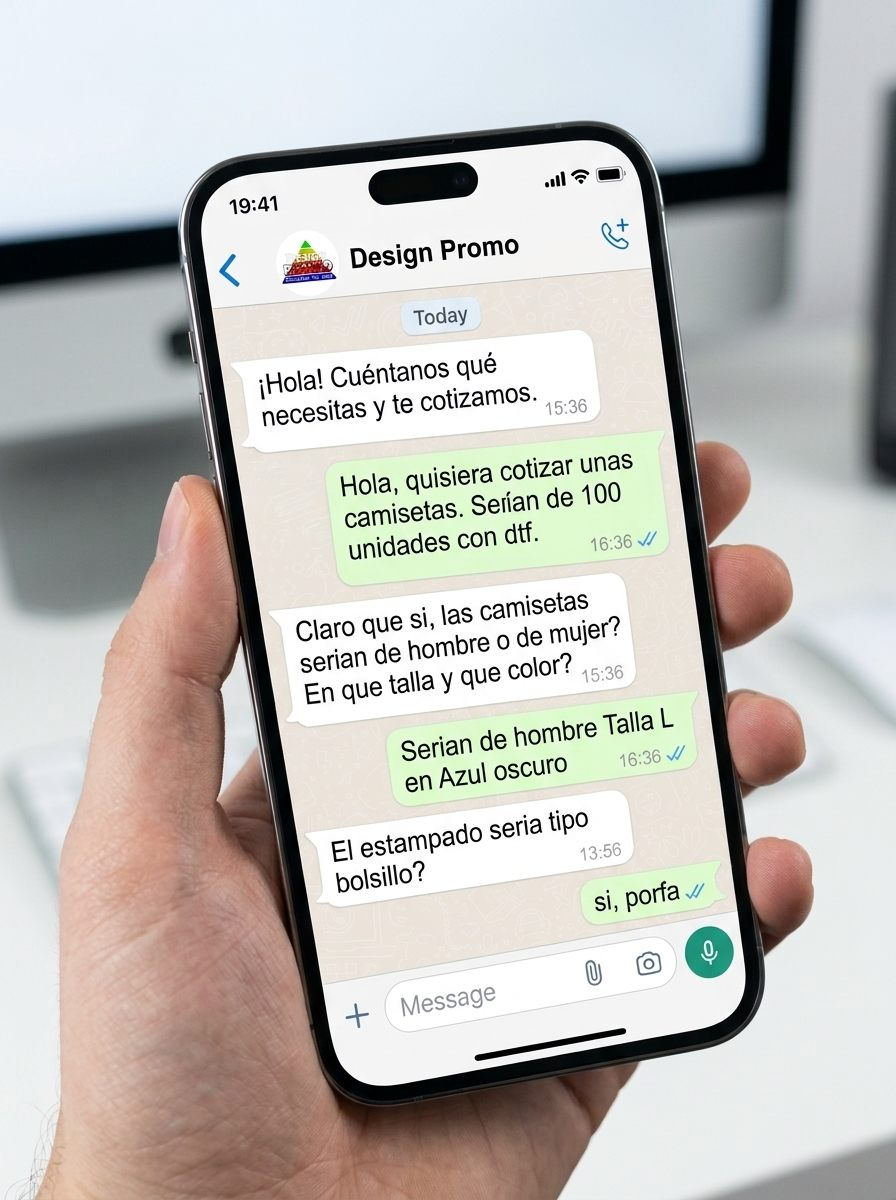
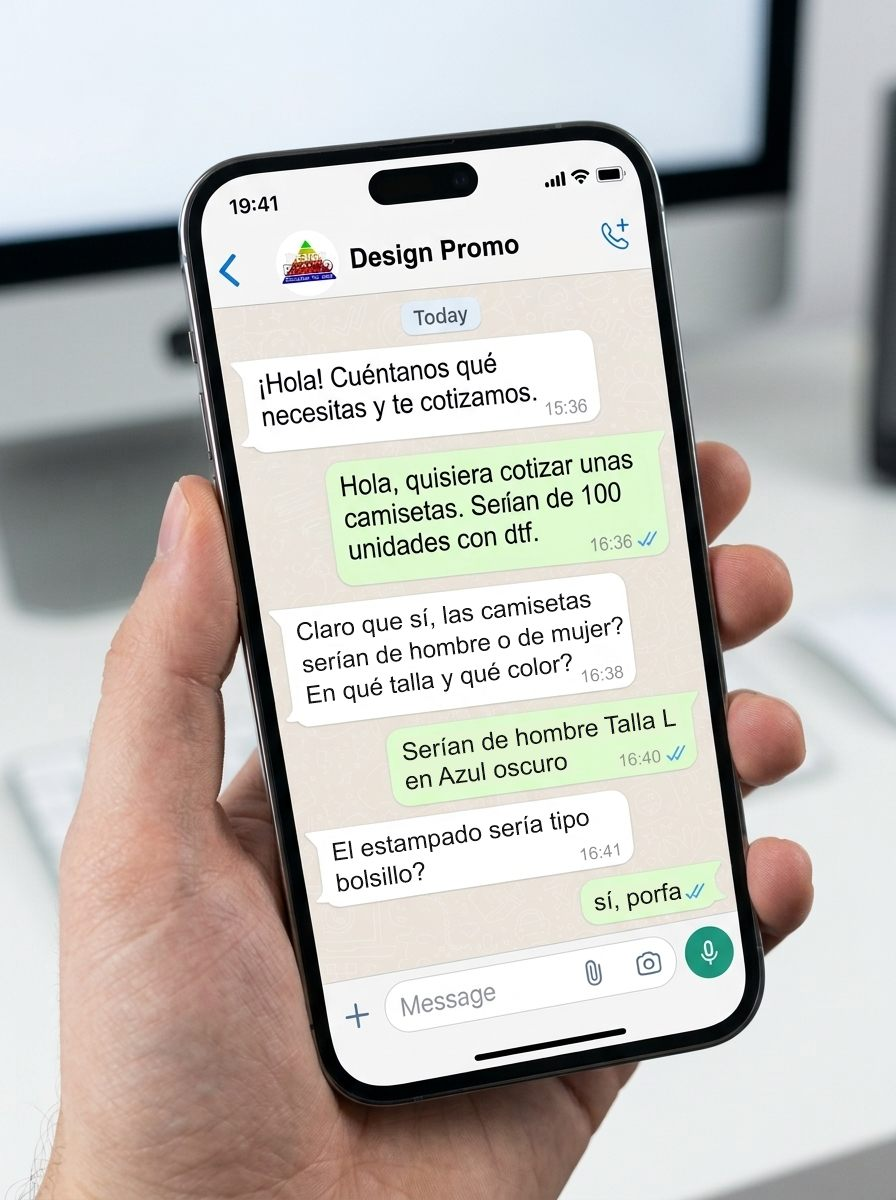
Corrige tildes y horas del chat 2 y pone el chat 3 en Apruebas el diseño

Changed region(s): [[0.3438, 0.4933, 0.75, 0.74], [0.6562, 0.74, 0.75, 0.7708]]

diff --git a/index.html b/index.html
@@ -606,7 +606,7 @@
 				<div class="steps__media" aria-hidden="true">
 					<img class="is-active" src="assets/img/escenas/chat-1.jpg" alt="" style="object-position: 50% 55%" loading="lazy" width="896" height="1200">
 					<img src="assets/img/escenas/chat-2.jpg" alt="" style="object-position: 50% 55%" loading="lazy" width="896" height="1200">
-					<img src="assets/img/escenas/plancha.jpg" alt="" loading="lazy" width="1216" height="864">
+					<img src="assets/img/escenas/chat-3.jpg" alt="" style="object-position: 50% 55%" loading="lazy" width="896" height="1199">
 					<img src="assets/img/escenas/bordadora.jpg" alt="" loading="lazy" width="1920" height="1047">
 				</div>
 				<ol class="steps__list">
